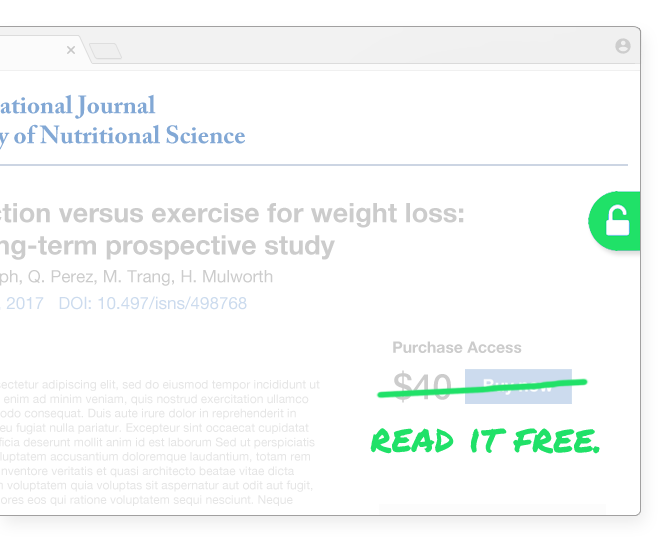
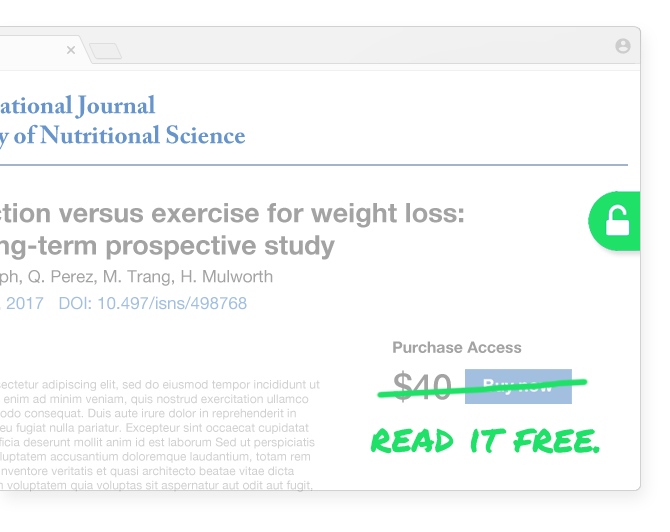
spacing issues.

diff --git a/static/main.css b/static/main.css
@@ -149,8 +149,8 @@ div.page.landing .screen.top-screen .top-screen-content .main-copy {
   }
 }
 div.page.landing .screen.top-screen .top-screen-content .main-copy div.tagline {
-  font-weight: 300;
-  font-size: 210%;
+  font-weight: bold;
+  font-size: 190%;
   color: #333;
 }
 @media only screen and (max-width: 600px) {
@@ -172,8 +172,8 @@ div.page.landing .screen.top-screen .top-screen-content .main-copy div.tagline .
   white-space: nowrap;
 }
 div.page.landing .screen.top-screen .top-screen-content .main-copy div.about {
-  margin: 30px 0;
-  font-size: 80%;
+  margin: 0 0 20px;
+  font-size: 75%;
 }
 div.page.landing .screen.top-screen .top-screen-content .main-copy div.about .button-info {
   color: darkred;

diff --git a/static/main.less b/static/main.less
@@ -206,8 +206,8 @@ div.page.landing {
             font-size: 18px;
           }
           div.tagline {
-            font-weight: 300;
-            font-size: 210%;
+            font-weight: bold;
+            font-size: 190%;
             color: #333;
             @media @xs {
               font-size: 30px;
@@ -233,8 +233,8 @@ div.page.landing {
           }
 
           div.about {
-            margin: 30px 0;
-            font-size: 80%;
+            margin: 0 0 20px;
+            font-size: 75%;
             .button-info {
               color: darkred;
               border-left: 3px solid darkred;
